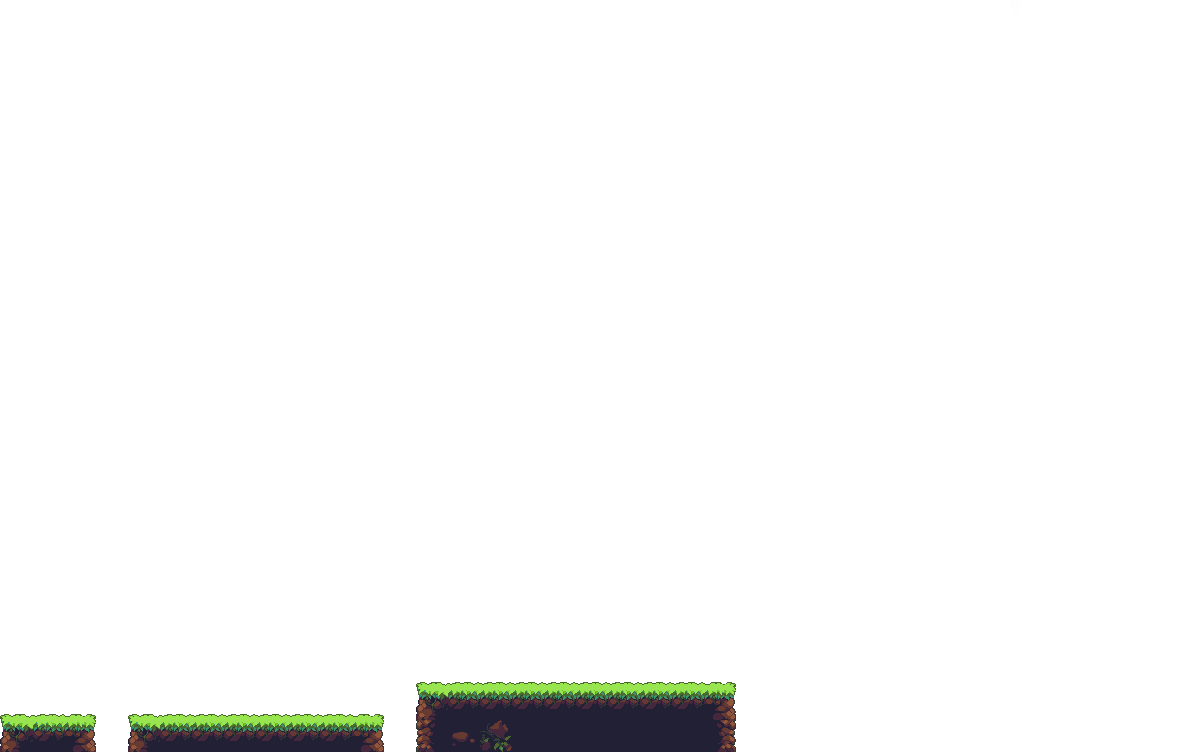
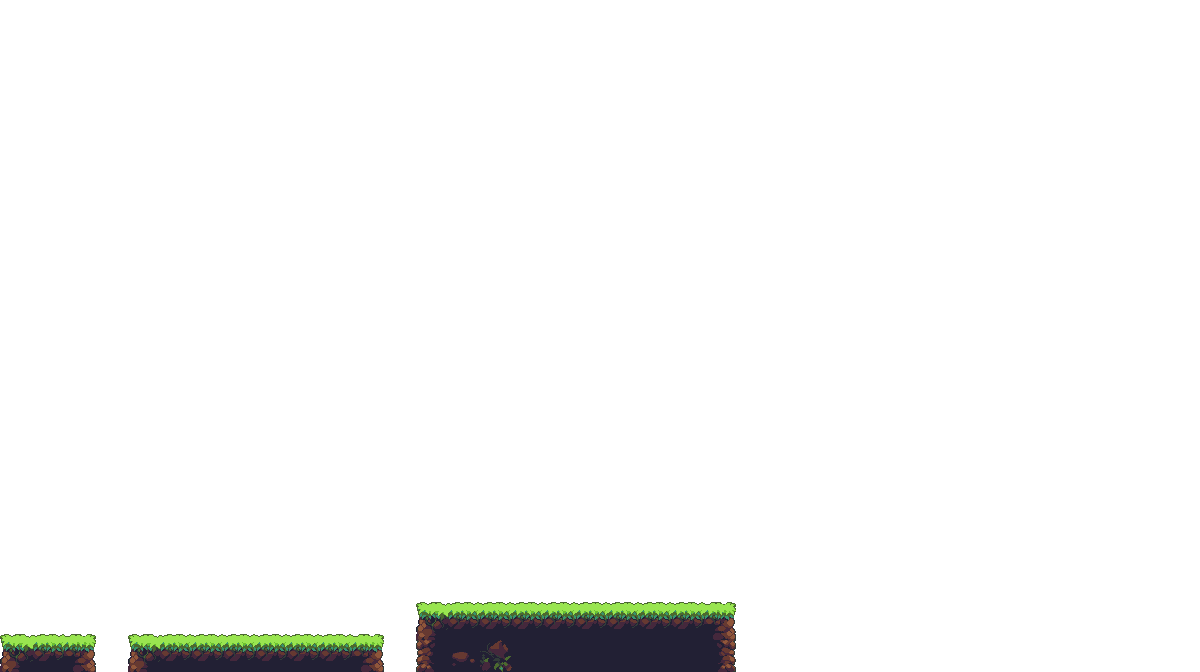
Testing Session 1

Changed region(s): [[0.0, 0.875, 0.6167, 1.0]]

diff --git a/Sketch1.java b/Sketch1.java
@@ -4,27 +4,39 @@ import processing.core.PImage;
 public class Sketch1 extends PApplet {
 
   PImage[] imgLevel;
+  PImage[] imgLevelCollision;
+
   int intNumLevels = 1;
+
+  float fltCollisionColor;
   
   public void settings() {
     
-    size(1200, 720);
+    size(1200, 672);
 
   }
 
   public void setup() {
 
     imgLevel = new PImage[intNumLevels];
+    imgLevelCollision = new PImage[intNumLevels];
 
     for (int i = 0; i < intNumLevels; i++) {
       imgLevel[i] = loadImage("levels/level" + i + ".png"); 
     }
-    
+
+    for (int i = 0; i < intNumLevels; i++) {
+      imgLevelCollision[i] = loadImage("levels/collision/levelCollision" + i + ".png"); 
+    }
   }
 
   
   public void draw() {
+    image(imgLevelCollision[0], 0, 0);
+    fltCollisionColor = get(mouseX,mouseY);
+    System.out.print(fltCollisionColor);
 	  image(imgLevel[0], 0, 0);
+
   }
   
   // define other methods down here.

diff --git a/Main.java b/Main.java
@@ -9,8 +9,8 @@ class Main {
   public static void main(String[] args) {
     
     String[] processingArgs = {"MySketch"};
-	  Sketch mySketch = new Sketch();  //comment this out to run the other sketch files
-	  // Sketch1 mySketch = new Sketch1();  // uncomment this to run this sketch file
+	  //Sketch mySketch = new Sketch();  //comment this out to run the other sketch files
+	  Sketch1 mySketch = new Sketch1();  // uncomment this to run this sketch file
 	  // Sketch2 mySketch = new Sketch2();  // uncomment this to run this sketch file
 	  
 	  PApplet.runSketch(processingArgs, mySketch);
